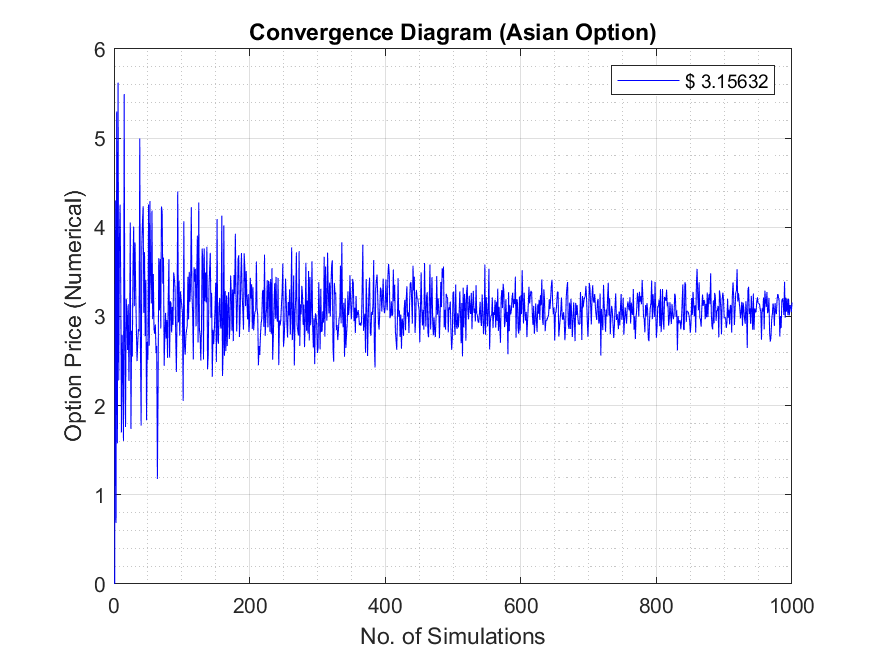
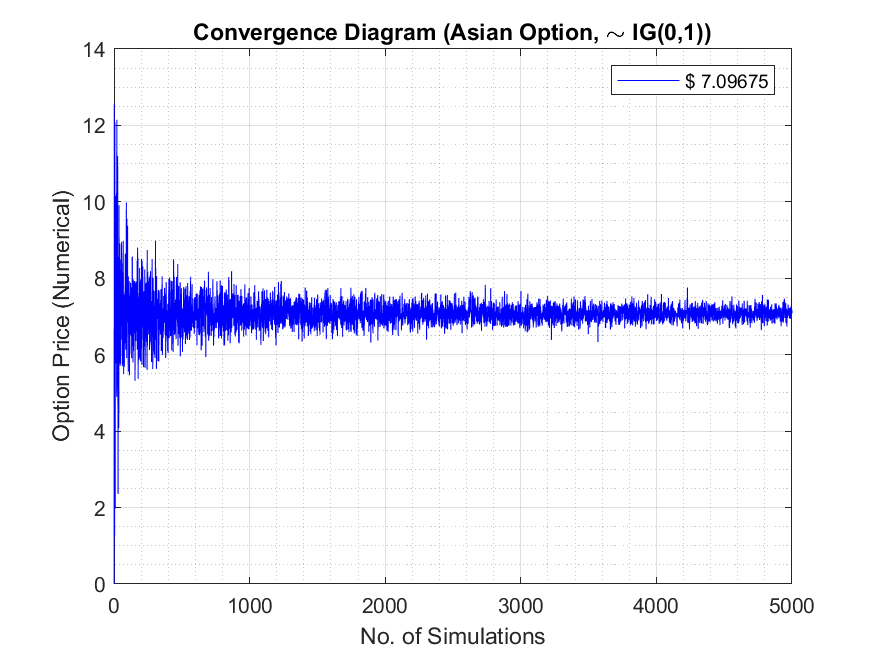
Update option parameters

diff --git a/Project 1/Asian Option/Asian_Monte_Carlo.m b/Project 1/Asian Option/Asian_Monte_Carlo.m
@@ -1,12 +1,13 @@
 %OPTION PARAMETERS%
-S = 50;
-K = 50;
-r = 0.01;
+tic
+S = 100;
+K = 100;
+r = 0.05;
 T=1;
 sigma=0.25;
 NSteps=24;
 %Simulating with Halton random numbers%
-N=1000;
+N=5000;
 G = zeros(1,N);
 for i=1:N
     q = qrandstream('halton',NSteps,'Skip',1e3,'Leap',1e2);
@@ -25,7 +26,7 @@ figure(1)
 plot(G,'-b')
 grid minor
 grid on
-title('Convergence Diagram (Asian Option)')
+title('Convergence Diagram (Asian Option, Halton Random Numbers)')
 ylabel('Option Price (Numerical)')
 xlabel('No. of Simulations')
 lgd=sprintf('$ %0.5f',G(end));
@@ -33,7 +34,7 @@ legend({lgd})
 saveas(gcf,'Asian_MC_Halton','png')
 
 %Simulating with Sobol random numbers%
-N=1000;
+N=5000;
 G = zeros(1,N);
 for i=1:N
     q = qrandstream('sobol',NSteps,'Skip',1e3,'Leap',1e2);
@@ -52,7 +53,7 @@ figure(2)
 plot(G,'-b')
 grid minor
 grid on
-title('Convergence Diagram (Asian Option)')
+title('Convergence Diagram (Asian Option, Sobol Random Numbers)')
 ylabel('Option Price (Numerical)')
 xlabel('No. of Simulations')
 lgd=sprintf('$ %0.5f',G(end));
@@ -60,7 +61,7 @@ legend({lgd})
 saveas(gcf,'Asian_MC_Sobol','png')
 
 %Simulating with quasi-random numbers%
-N=1000;
+N=5000;
 G = zeros(1,N);
 for i=1:N
     z_RandMat = norminv(rand(i,NSteps),0,1);
@@ -77,9 +78,10 @@ figure(3)
 plot(G,'-b')
 grid minor
 grid on
-title('Convergence Diagram (Asian Option)')
+title('Convergence Diagram (Asian Option, \sim IG(0,1))')
 ylabel('Option Price (Numerical)')
 xlabel('No. of Simulations')
 lgd=sprintf('$ %0.5f',G(end));
 legend({lgd})
 saveas(gcf,'Asian_MC_Inv_Norm','png')
+toc
